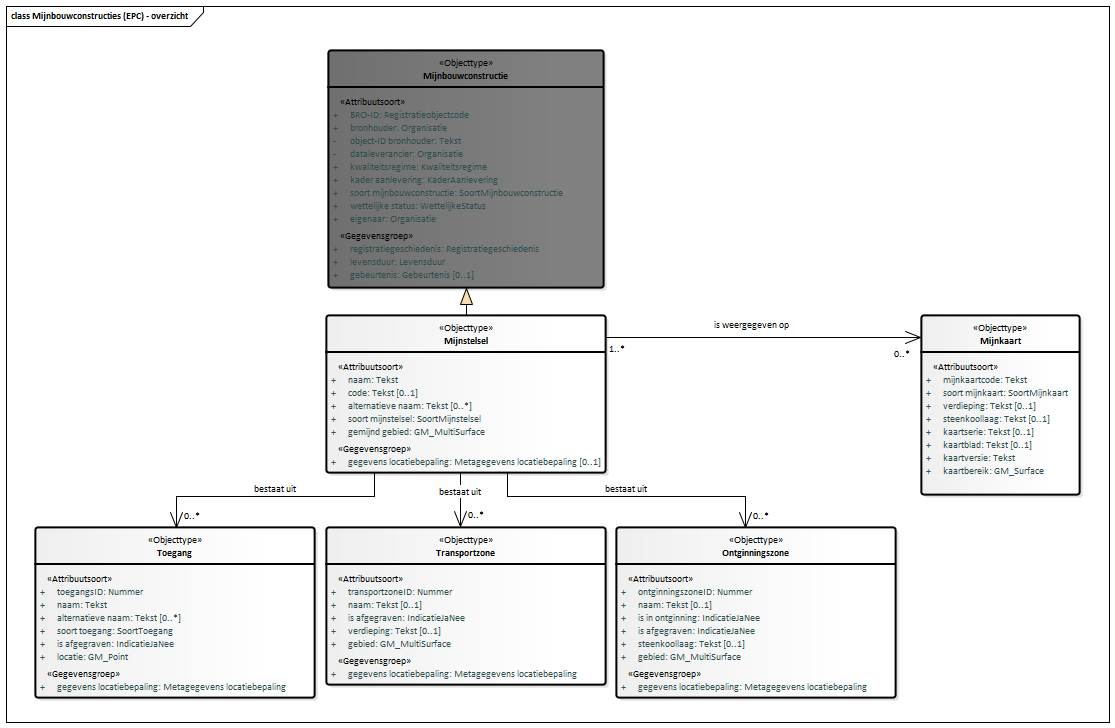
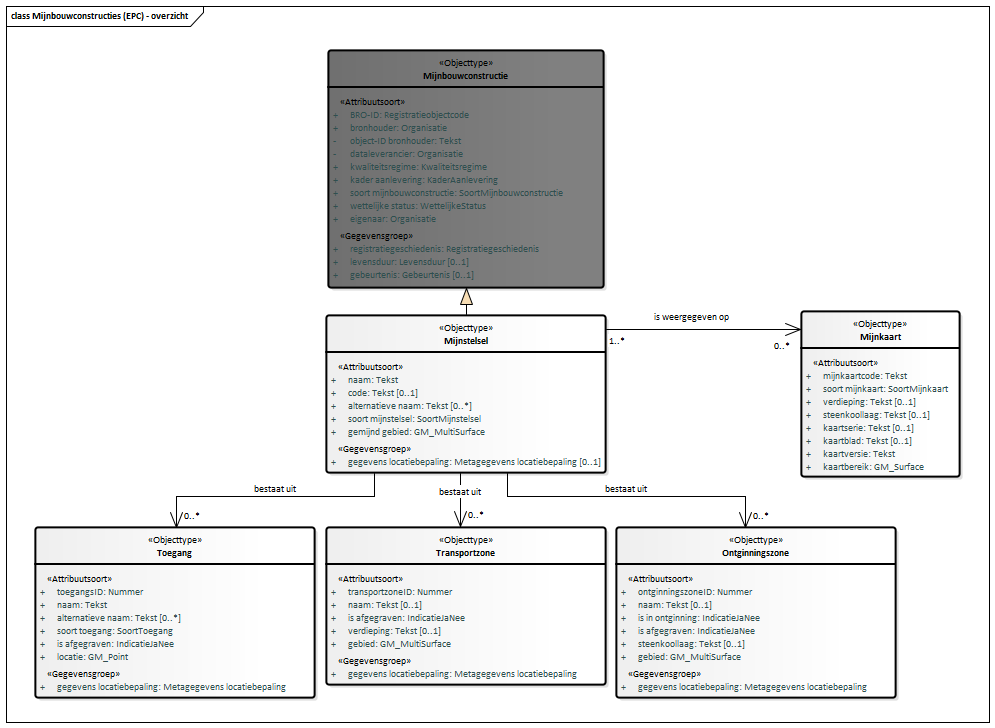
Conceptualmodel-MijnbouwconstructiesEPC-conceptueel-Mijnstelsel-0.1versie27juli2020-1-20200727-20210113-152846

diff --git a/data/EPC-cat.msword.html b/data/EPC-cat.msword.html
@@ -1,4 +1,4 @@
-<html>
+<!DOCTYPE HTML><html>
    <head>
       <meta http-equiv="Content-Type" content="text/html; charset=UTF-8">
       <title>Conceptual model/Mijnbouwconstructies (EPC) - conceptueel - Mijnstelsel/20200727</title>
@@ -14,8 +14,8 @@
    </head>
    <body>
       <p>Conceptual model/Mijnbouwconstructies (EPC) - conceptueel - Mijnstelsel/20200727</p>
-      <p>Imvertor: 1.62.2</p>
-      <p>Model release: Conceptualmodel-MijnbouwconstructiesEPC-conceptueel-Mijnstelsel-0.1versie27juli2020-1-20200727-20210111-143543</p>
+      <p>Imvertor: 1.63.0</p>
+      <p>Model release: Conceptualmodel-MijnbouwconstructiesEPC-conceptueel-Mijnstelsel-0.1versie27juli2020-1-20200727-20210113-152846</p>
       <hr>
       <section>
          <h1>Artikel 1 Definitie van registratieobject, entiteiten en attributen</h1>
@@ -74,7 +74,7 @@
          <section>
             <h2>Het domeinmodel</h2>
             <section id="">
-               <div class="imageinfo overview"><img src="Images/EAID_427D0B1B_02C7_47be_BB79_811DC7B03767.png" usemap="#imagemap-EAID_427D0B1B_02C7_47be_BB79_811DC7B03767" alt="Diagram &#xA;"><map name="imagemap-EAID_427D0B1B_02C7_47be_BB79_811DC7B03767"><area shape="rect" alt="Mijnbouwconstructie" coords="328,50,604,288" href="#graph_EAID_13895725_BEC6_4db9_94FA_45FD9EFF5B7A"><area shape="rect" alt="Mijnkaart" coords="921,315,1080,495" href="#graph_EAID_21D86031_1848_4114_BE7A_C7D59D904F70"><area shape="rect" alt="Ontginningszone" coords="616,527,896,698" href="#graph_EAID_D08FEA8B_2C37_4a07_8BA2_ACB20859D0D3"><area shape="rect" alt="Transportzone" coords="326,527,606,685" href="#graph_EAID_CFE642E9_B1B4_4565_826F_62987F16BE0C"><area shape="rect" alt="Toegang" coords="35,527,315,698" href="#graph_EAID_6E2D01B2_4E2A_4325_8E9B_4B6ABF5130B1"><area shape="rect" alt="Mijnstelsel" coords="326,315,606,473" href="#graph_EAID_775FFB45_C373_487e_9450_6549EE37260B"></map><p><b>Mijnbouwconstructies (EPC)</b></p>
+               <div class="imageinfo overview"><img src="Images/EAID_427D0B1B_02C7_47be_BB79_811DC7B03767.png" usemap="#imagemap-EAID_427D0B1B_02C7_47be_BB79_811DC7B03767" alt="Diagram &#xA;"><map name="imagemap-EAID_427D0B1B_02C7_47be_BB79_811DC7B03767"><area shape="rect" alt="Mijnbouwconstructie" coords="328,50,604,288" href="#graph_EAID_13895725_BEC6_4db9_94FA_45FD9EFF5B7A"><area shape="rect" alt="Mijnkaart" coords="801,311,960,477" href="#graph_EAID_21D86031_1848_4114_BE7A_C7D59D904F70"><area shape="rect" alt="Ontginningszone" coords="616,527,896,698" href="#graph_EAID_D08FEA8B_2C37_4a07_8BA2_ACB20859D0D3"><area shape="rect" alt="Transportzone" coords="326,527,606,685" href="#graph_EAID_CFE642E9_B1B4_4565_826F_62987F16BE0C"><area shape="rect" alt="Toegang" coords="35,527,315,698" href="#graph_EAID_6E2D01B2_4E2A_4325_8E9B_4B6ABF5130B1"><area shape="rect" alt="Mijnstelsel" coords="326,315,606,473" href="#graph_EAID_775FFB45_C373_487e_9450_6549EE37260B"></map><p><b>Mijnbouwconstructies (EPC)</b></p>
                </div>
             </section>
          </section>
@@ -98,6 +98,9 @@
                               
                               <p>De gegevens die de mijnbouwconstructie identificeren en inzicht geven in de geschiedenis
                                  van het object voorafgaand aan opname in de registratie ondergrond.</p>
+                              
+                              <p>&gt; HIERONDER DE UITBREIDING VOOR MIJNSTELSEL
+                                 (Kardinaliteit levensduur)</p>
                               </td>
                         </tr>
                      </tbody>
@@ -617,7 +620,7 @@
                            </tr>
                         </tbody>
                      </table>
-                     </section><a class="anchor" id="detail_d33646e2030"></a><section id="detail_d33646e2030">
+                     </section><a class="anchor" id="detail_d33714e2030"></a><section id="detail_d33714e2030">
                      <h4>  registratiegeschiedenis</h4>
                      
                      
@@ -627,7 +630,7 @@
                         <tbody>
                            <tr>
                               <th>Type gegeven</th>
-                              <td>Associatie van Mijnbouwconstructie</td>
+                              <td>Gegevensgroep van Mijnbouwconstructie</td>
                            </tr>
                            <tr>
                               <th>Juridische status</th>
@@ -651,11 +654,13 @@
                            </tr>
                            <tr>
                               <th>Target</th>
-                              <td>registratiegeschiedenis</td>
+                              <td>
+                                 Registratiegeschiedenis
+                                 </td>
                            </tr>
                         </tbody>
                      </table>
-                     </section><a class="anchor" id="detail_d33646e2176"></a><section id="detail_d33646e2176">
+                     </section><a class="anchor" id="detail_d33714e2153"></a><section id="detail_d33714e2153">
                      <h4>  levensduur</h4>
                      
                      
@@ -665,7 +670,7 @@
                         <tbody>
                            <tr>
                               <th>Type gegeven</th>
-                              <td>Associatie van Mijnbouwconstructie</td>
+                              <td>Gegevensgroep van Mijnbouwconstructie</td>
                            </tr>
                            <tr>
                               <th>Juridische status</th>
@@ -673,7 +678,7 @@
                            </tr>
                            <tr>
                               <th>Kardinaliteit</th>
-                              <td>1</td>
+                              <td>0..1</td>
                            </tr>
                            <tr>
                               <th>Relatiesoort naam</th>
@@ -689,11 +694,13 @@
                            </tr>
                            <tr>
                               <th>Target</th>
-                              <td>levensduur</td>
+                              <td>
+                                 Levensduur
+                                 </td>
                            </tr>
                         </tbody>
                      </table>
-                     </section><a class="anchor" id="detail_d33646e2320"></a><section id="detail_d33646e2320">
+                     </section><a class="anchor" id="detail_d33714e2275"></a><section id="detail_d33714e2275">
                      <h4>  gebeurtenis</h4>
                      
                      
@@ -703,7 +710,7 @@
                         <tbody>
                            <tr>
                               <th>Type gegeven</th>
-                              <td>Associatie van Mijnbouwconstructie</td>
+                              <td>Gegevensgroep van Mijnbouwconstructie</td>
                            </tr>
                            <tr>
                               <th>Juridische status</th>
@@ -727,7 +734,9 @@
                            </tr>
                            <tr>
                               <th>Target</th>
-                              <td>gebeurtenis</td>
+                              <td>
+                                 Gebeurtenis
+                                 </td>
                            </tr>
                         </tbody>
                      </table>
@@ -1904,7 +1913,9 @@
                            </tr>
                            <tr>
                               <th>Target</th>
-                              <td>is weergegeven op</td>
+                              <td>
+                                 Mijnkaart
+                                 </td>
                            </tr>
                         </tbody>
                      </table>
@@ -1938,7 +1949,9 @@
                            </tr>
                            <tr>
                               <th>Target</th>
-                              <td>bestaat uit</td>
+                              <td>
+                                 Toegang
+                                 </td>
                            </tr>
                         </tbody>
                      </table>
@@ -1972,7 +1985,9 @@
                            </tr>
                            <tr>
                               <th>Target</th>
-                              <td>bestaat uit</td>
+                              <td>
+                                 Ontginningszone
+                                 </td>
                            </tr>
                         </tbody>
                      </table>
@@ -2006,11 +2021,13 @@
                            </tr>
                            <tr>
                               <th>Target</th>
-                              <td>bestaat uit</td>
+                              <td>
+                                 Transportzone
+                                 </td>
                            </tr>
                         </tbody>
                      </table>
-                     </section><a class="anchor" id="detail_d33646e6544"></a><section id="detail_d33646e6544">
+                     </section><a class="anchor" id="detail_d33714e6479"></a><section id="detail_d33714e6479">
                      <h4>  gegevens locatiebepaling</h4>
                      
                      
@@ -2020,7 +2037,7 @@
                         <tbody>
                            <tr>
                               <th>Type gegeven</th>
-                              <td>Associatie van Mijnstelsel</td>
+                              <td>Gegevensgroep van Mijnstelsel</td>
                            </tr>
                            <tr>
                               <th>Juridische status</th>
@@ -2044,7 +2061,9 @@
                            </tr>
                            <tr>
                               <th>Target</th>
-                              <td>gegevens locatiebepaling</td>
+                              <td>
+                                 Metagegevens locatiebepaling
+                                 </td>
                            </tr>
                         </tbody>
                      </table>
@@ -2830,7 +2849,7 @@
                            </tr>
                         </tbody>
                      </table>
-                     </section><a class="anchor" id="detail_d33646e9251"></a><section id="detail_d33646e9251">
+                     </section><a class="anchor" id="detail_d33714e9162"></a><section id="detail_d33714e9162">
                      <h4>  gegevens locatiebepaling</h4>
                      
                      
@@ -2840,7 +2859,7 @@
                         <tbody>
                            <tr>
                               <th>Type gegeven</th>
-                              <td>Associatie van Toegang</td>
+                              <td>Gegevensgroep van Toegang</td>
                            </tr>
                            <tr>
                               <th>Definitie</th>
@@ -2871,7 +2890,9 @@
                            </tr>
                            <tr>
                               <th>Target</th>
-                              <td>gegevens locatiebepaling</td>
+                              <td>
+                                 Metagegevens locatiebepaling
+                                 </td>
                            </tr>
                         </tbody>
                      </table>
@@ -3148,7 +3169,7 @@
                            </tr>
                         </tbody>
                      </table>
-                     </section><a class="anchor" id="detail_d33646e10388"></a><section id="detail_d33646e10388">
+                     </section><a class="anchor" id="detail_d33714e10275"></a><section id="detail_d33714e10275">
                      <h4>  gegevens locatiebepaling</h4>
                      
                      
@@ -3158,7 +3179,7 @@
                         <tbody>
                            <tr>
                               <th>Type gegeven</th>
-                              <td>Associatie van Transportzone</td>
+                              <td>Gegevensgroep van Transportzone</td>
                            </tr>
                            <tr>
                               <th>Definitie</th>
@@ -3189,7 +3210,9 @@
                            </tr>
                            <tr>
                               <th>Target</th>
-                              <td>gegevens locatiebepaling</td>
+                              <td>
+                                 Metagegevens locatiebepaling
+                                 </td>
                            </tr>
                            <tr>
                               <th>Regels</th>
@@ -3529,7 +3552,7 @@
                                  <p>
                                     <em>Gebied</em> ligt geheel binnen het <em>gemijnd gebied</em> van het <em>Mijnstelsel</em>.
                                     De gebieden van ontginningszones die dezelfde <em>steenkoollaag</em> hebben, mogen elkaar niet overlappen.
-                                    <em>Gebied</em> mag niet openbaar uitgeleverd wanneer het <em>soort mijnstelsel</em> ongelijk is aan 'steenkoolmijn'.</p>
+                                    <em>Gebied</em> mag niet openbaar uitgeleverd worden wanneer het <em>soort mijnstelsel</em> ongelijk is aan 'steenkoolmijn'.</p>
                                  </td>
                            </tr>
                            <tr>
@@ -3538,7 +3561,7 @@
                            </tr>
                         </tbody>
                      </table>
-                     </section><a class="anchor" id="detail_d33646e11748"></a><section id="detail_d33646e11748">
+                     </section><a class="anchor" id="detail_d33714e11611"></a><section id="detail_d33714e11611">
                      <h4>  gegevens locatiebepaling</h4>
                      
                      
@@ -3548,7 +3571,7 @@
                         <tbody>
                            <tr>
                               <th>Type gegeven</th>
-                              <td>Associatie van Ontginningszone</td>
+                              <td>Gegevensgroep van Ontginningszone</td>
                            </tr>
                            <tr>
                               <th>Definitie</th>
@@ -3579,7 +3602,9 @@
                            </tr>
                            <tr>
                               <th>Target</th>
-                              <td>gegevens locatiebepaling</td>
+                              <td>
+                                 Metagegevens locatiebepaling
+                                 </td>
                            </tr>
                            <tr>
                               <th>Regels</th>
